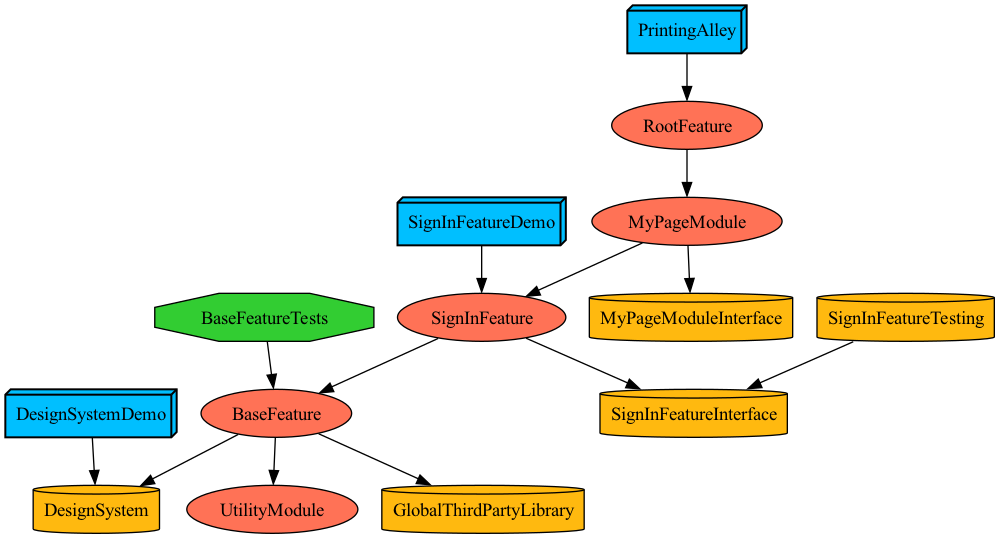
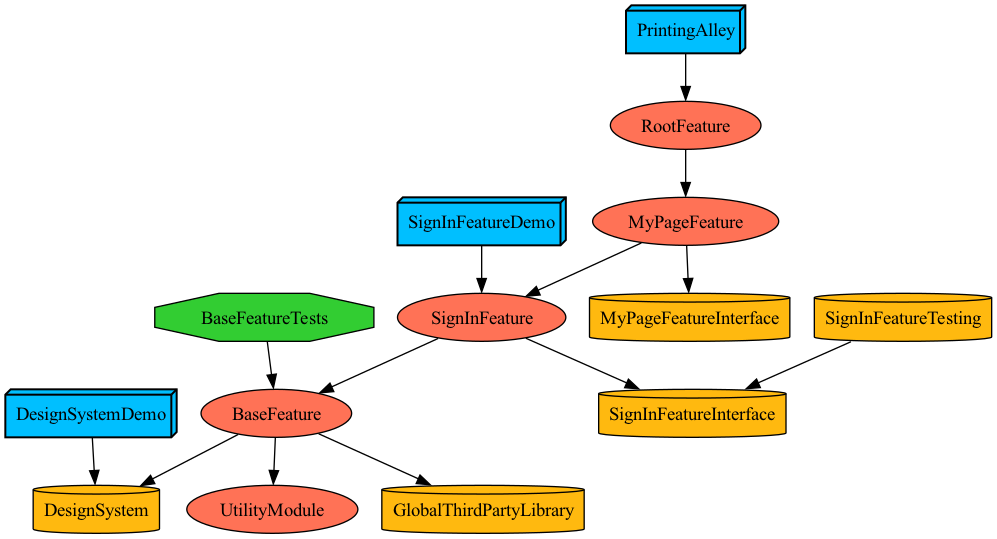
:recycle: :: MyPageModule -> MyPageFeature으로 변경

diff --git a/Projects/Feature/MyPageFeature/Project.swift b/Projects/Feature/MyPageFeature/Project.swift
@@ -1,0 +1,14 @@
+import DependencyPlugin
+import ProjectDescription
+import ProjectDescriptionHelpers
+
+let project = Project.module(
+    name: ModulePaths.Feature.MyPageFeature.rawValue,
+    targets: [
+        .interface(module: .feature(.MyPageFeature)),
+        .implements(module: .feature(.MyPageFeature), dependencies: [
+            .feature(target: .MyPageFeature, type: .interface),
+            .feature(target: .SignInFeature)
+        ])
+    ]
+)

diff --git a/Projects/Feature/RootFeature/Project.swift b/Projects/Feature/RootFeature/Project.swift
@@ -6,7 +6,7 @@ let project = Project.module(
     name: ModulePaths.Feature.RootFeature.rawValue,
     targets: [
         .implements(module: .feature(.RootFeature),dependencies: [
-            .feature(target: .MyPageModule)
+            .feature(target: .MyPageFeature)
         ])
     ]
 )

diff --git a/Plugin/DependencyPlugin/ProjectDescriptionHelpers/ModulePaths.swift b/Plugin/DependencyPlugin/ProjectDescriptionHelpers/ModulePaths.swift
@@ -24,7 +24,7 @@ extension ModulePaths: MicroTargetPathConvertable {
 
 public extension ModulePaths {
     enum Feature: String, MicroTargetPathConvertable {
-        case MyPageModule
+        case MyPageFeature
         case SignInFeature
         case RootFeature
         case BaseFeature
